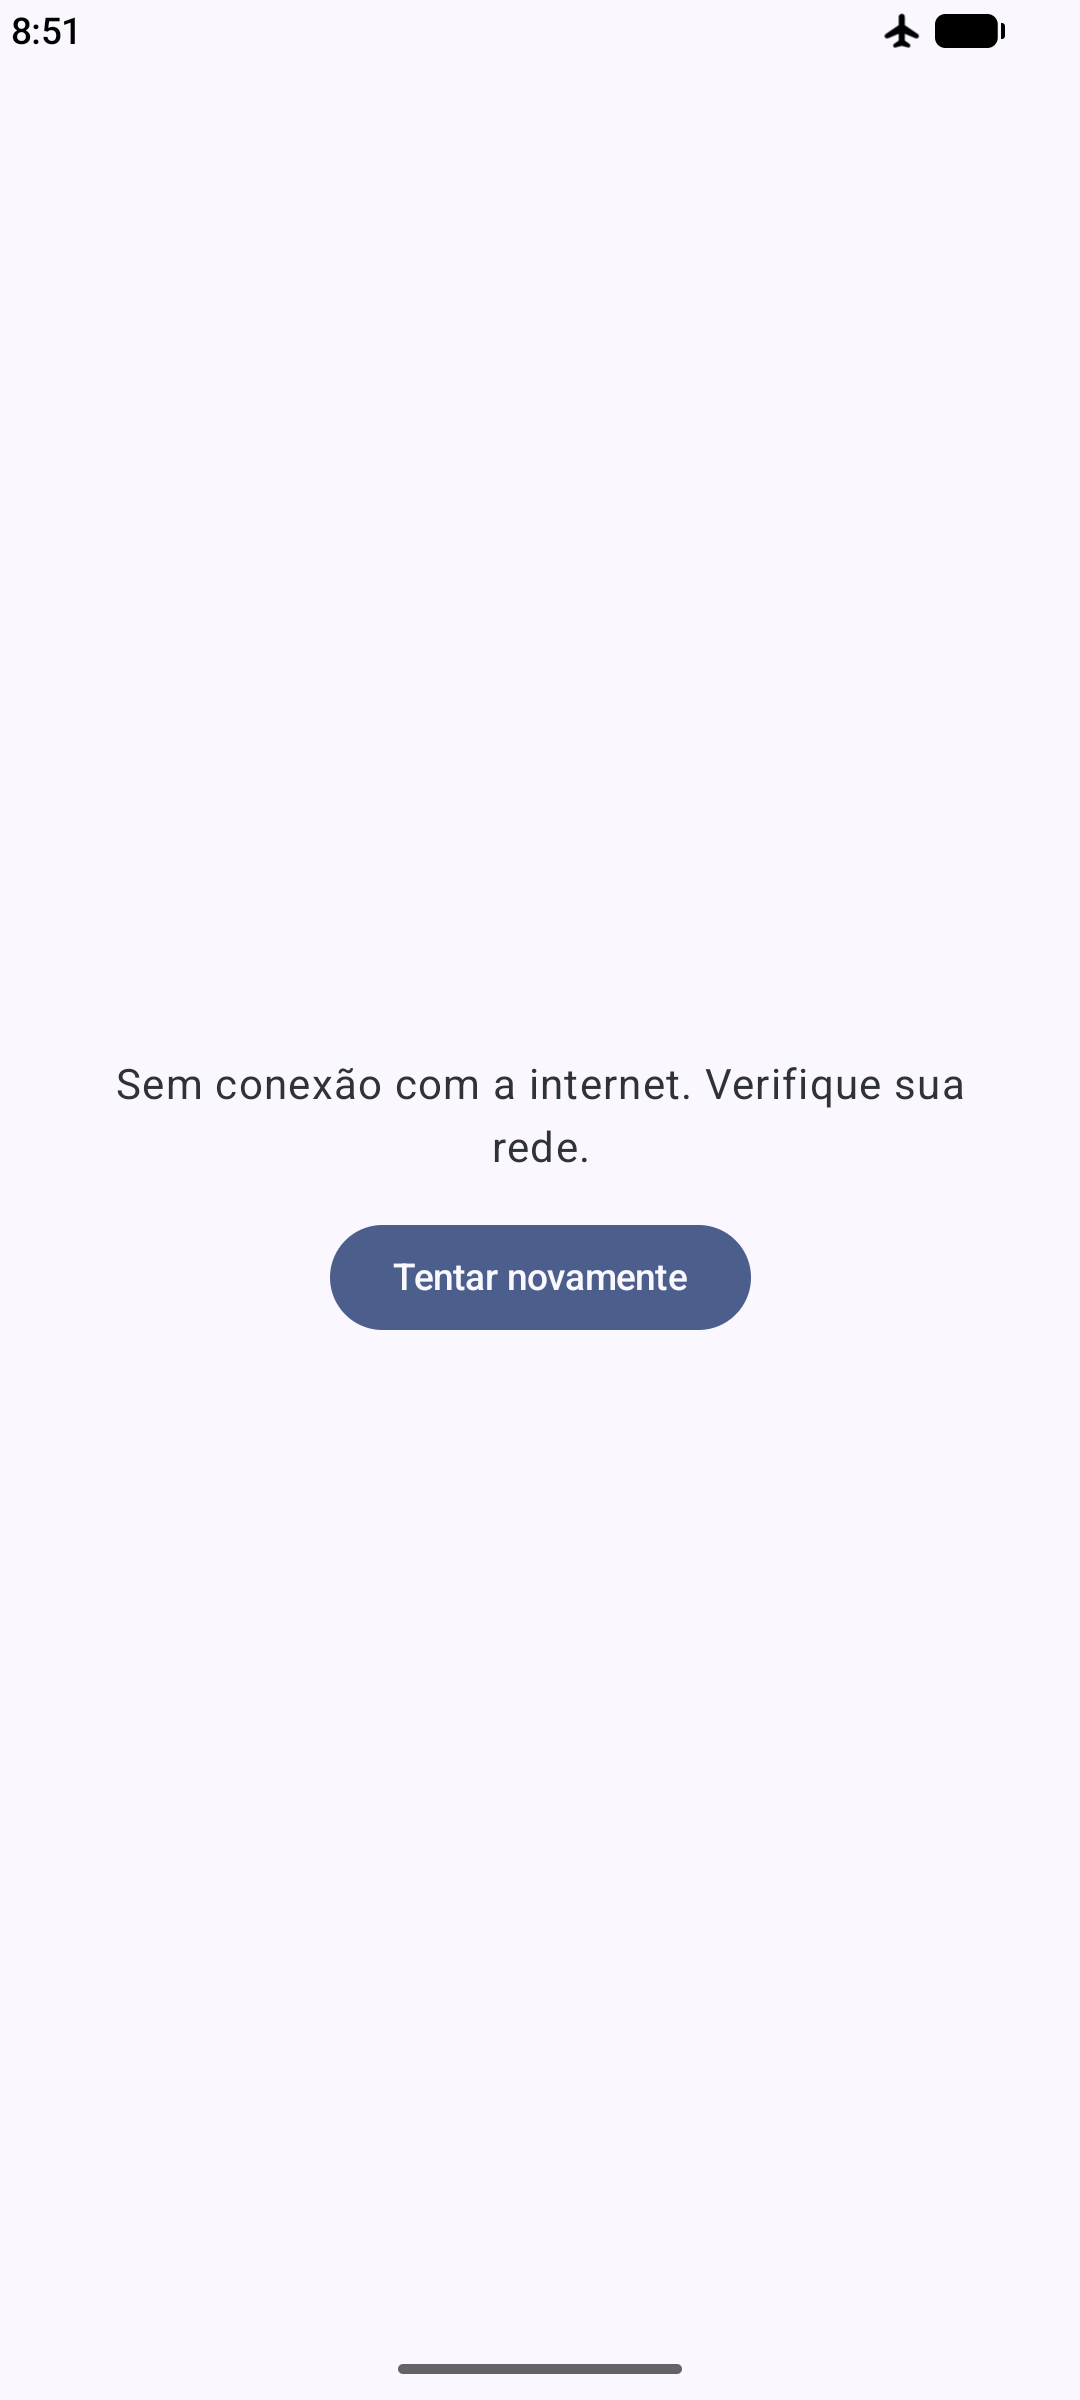
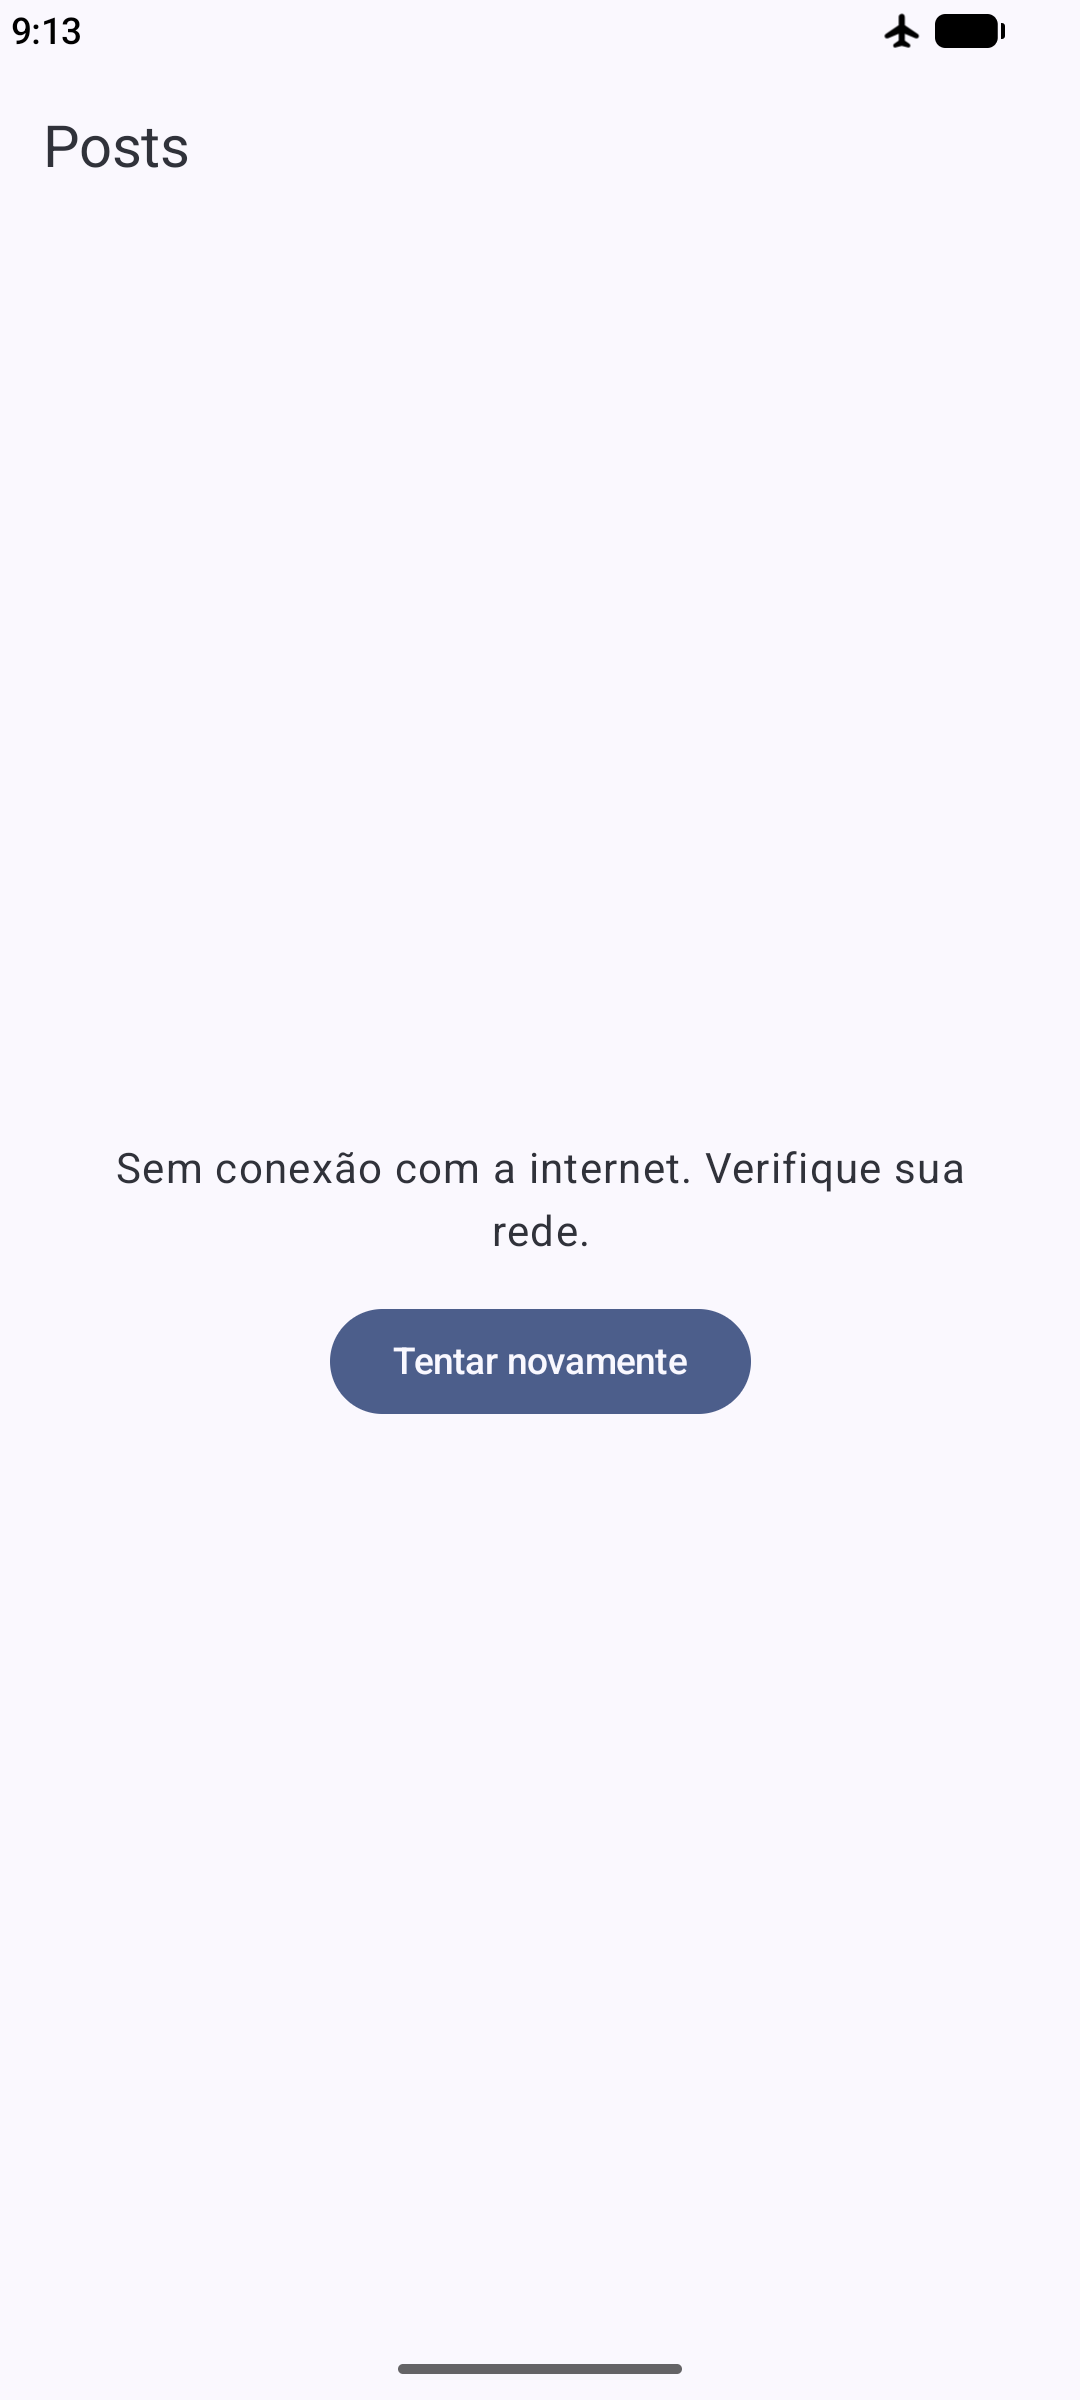
Adiciona tela de detalhes do post com comentários e Navigation Compose

diff --git a/app/src/main/java/com/example/retrofit_radier/PostDetailScreen.kt b/app/src/main/java/com/example/retrofit_radier/PostDetailScreen.kt
@@ -1,0 +1,138 @@
+package com.example.retrofit_radier
+
+import androidx.compose.foundation.layout.Arrangement
+import androidx.compose.foundation.layout.Column
+import androidx.compose.foundation.layout.PaddingValues
+import androidx.compose.foundation.layout.Spacer
+import androidx.compose.foundation.layout.fillMaxSize
+import androidx.compose.foundation.layout.fillMaxWidth
+import androidx.compose.foundation.layout.height
+import androidx.compose.foundation.layout.padding
+import androidx.compose.foundation.lazy.LazyColumn
+import androidx.compose.foundation.lazy.items
+import androidx.compose.material3.Card
+import androidx.compose.material3.CardDefaults
+import androidx.compose.material3.ExperimentalMaterial3Api
+import androidx.compose.material3.HorizontalDivider
+import androidx.compose.material3.Icon
+import androidx.compose.material3.IconButton
+import androidx.compose.material3.MaterialTheme
+import androidx.compose.material3.Scaffold
+import androidx.compose.material3.Text
+import androidx.compose.material3.TopAppBar
+import androidx.compose.runtime.Composable
+import androidx.compose.runtime.collectAsState
+import androidx.compose.runtime.getValue
+import androidx.compose.ui.Modifier
+import androidx.compose.ui.res.painterResource
+import androidx.compose.ui.text.font.FontWeight
+import androidx.compose.ui.tooling.preview.Preview
+import androidx.compose.ui.unit.dp
+import androidx.lifecycle.viewmodel.compose.viewModel
+import com.example.retrofit_radier.network.Comment
+import com.example.retrofit_radier.network.Post
+import com.example.retrofit_radier.ui.theme.Retrofit_radierTheme
+
+@OptIn(ExperimentalMaterial3Api::class)
+@Composable
+fun PostDetailScreen(
+    onBack: () -> Unit,
+    viewModel: PostDetailViewModel = viewModel()
+) {
+    val uiState by viewModel.uiState.collectAsState()
+
+    Scaffold(
+        topBar = {
+            TopAppBar(
+                title = { Text("Detalhes do post") },
+                navigationIcon = {
+                    IconButton(onClick = onBack) {
+                        Icon(
+                            painter = painterResource(R.drawable.ic_arrow_back),
+                            contentDescription = "Voltar"
+                        )
+                    }
+                }
+            )
+        }
+    ) { innerPadding ->
+        val modifier = Modifier.padding(innerPadding)
+        when (val state = uiState) {
+            is PostDetailUiState.Loading -> LoadingScreen(modifier)
+            is PostDetailUiState.Success -> PostDetailContent(state.post, state.comments, modifier)
+            is PostDetailUiState.Error -> ErrorScreen(state.message, onRetry = viewModel::fetchPost, modifier)
+        }
+    }
+}
+
+@Composable
+fun PostDetailContent(post: Post, comments: List<Comment>, modifier: Modifier = Modifier) {
+    LazyColumn(
+        modifier = modifier.fillMaxSize(),
+        contentPadding = PaddingValues(16.dp),
+        verticalArrangement = Arrangement.spacedBy(12.dp)
+    ) {
+        item {
+            Text(
+                text = "Post #${post.id} · Usuário ${post.userId}",
+                style = MaterialTheme.typography.labelMedium,
+                color = MaterialTheme.colorScheme.primary
+            )
+            Spacer(modifier = Modifier.height(8.dp))
+            Text(
+                text = post.title,
+                style = MaterialTheme.typography.headlineSmall,
+                fontWeight = FontWeight.Bold
+            )
+            Spacer(modifier = Modifier.height(12.dp))
+            Text(text = post.body, style = MaterialTheme.typography.bodyLarge)
+            Spacer(modifier = Modifier.height(16.dp))
+            HorizontalDivider()
+            Spacer(modifier = Modifier.height(16.dp))
+            Text(
+                text = "Comentários (${comments.size})",
+                style = MaterialTheme.typography.titleMedium,
+                fontWeight = FontWeight.Bold
+            )
+        }
+        items(comments, key = { it.id }) { comment ->
+            CommentCard(comment)
+        }
+    }
+}
+
+@Composable
+fun CommentCard(comment: Comment) {
+    Card(
+        modifier = Modifier.fillMaxWidth(),
+        colors = CardDefaults.cardColors(containerColor = MaterialTheme.colorScheme.surfaceVariant)
+    ) {
+        Column(modifier = Modifier.padding(12.dp)) {
+            Text(
+                text = comment.name,
+                style = MaterialTheme.typography.titleSmall,
+                fontWeight = FontWeight.Bold
+            )
+            Text(
+                text = comment.email,
+                style = MaterialTheme.typography.labelSmall,
+                color = MaterialTheme.colorScheme.primary
+            )
+            Spacer(modifier = Modifier.height(6.dp))
+            Text(text = comment.body, style = MaterialTheme.typography.bodyMedium)
+        }
+    }
+}
+
+@Preview(showBackground = true)
+@Composable
+fun PostDetailContentPreview() {
+    Retrofit_radierTheme {
+        PostDetailContent(
+            post = Post(userId = 1, id = 1, title = "Título de exemplo", body = "Corpo do post de exemplo."),
+            comments = listOf(
+                Comment(postId = 1, id = 1, name = "Comentário de exemplo", email = "autor@email.com", body = "Texto do comentário.")
+            )
+        )
+    }
+}

diff --git a/app/src/main/java/com/example/retrofit_radier/MainActivity.kt b/app/src/main/java/com/example/retrofit_radier/MainActivity.kt
@@ -19,9 +19,11 @@ import androidx.compose.material3.Button
 import androidx.compose.material3.Card
 import androidx.compose.material3.CardDefaults
 import androidx.compose.material3.CircularProgressIndicator
+import androidx.compose.material3.ExperimentalMaterial3Api
 import androidx.compose.material3.MaterialTheme
 import androidx.compose.material3.Scaffold
 import androidx.compose.material3.Text
+import androidx.compose.material3.TopAppBar
 import androidx.compose.runtime.Composable
 import androidx.compose.runtime.collectAsState
 import androidx.compose.runtime.getValue
@@ -32,6 +34,11 @@ import androidx.compose.ui.text.style.TextAlign
 import androidx.compose.ui.tooling.preview.Preview
 import androidx.compose.ui.unit.dp
 import androidx.lifecycle.viewmodel.compose.viewModel
+import androidx.navigation.NavType
+import androidx.navigation.compose.NavHost
+import androidx.navigation.compose.composable
+import androidx.navigation.compose.rememberNavController
+import androidx.navigation.navArgument
 import com.example.retrofit_radier.network.Post
 import com.example.retrofit_radier.ui.theme.Retrofit_radierTheme
 
@@ -41,26 +48,47 @@ class MainActivity : ComponentActivity() {
         enableEdgeToEdge()
         setContent {
             Retrofit_radierTheme {
-                Scaffold(modifier = Modifier.fillMaxSize()) { innerPadding ->
-                    PostScreen(modifier = Modifier.padding(innerPadding))
-                }
+                AppNavigation()
             }
         }
     }
 }
 
 @Composable
+fun AppNavigation() {
+    val navController = rememberNavController()
+
+    NavHost(navController = navController, startDestination = "posts") {
+        composable("posts") {
+            PostScreen(onPostClick = { postId -> navController.navigate("detail/$postId") })
+        }
+        composable(
+            route = "detail/{postId}",
+            arguments = listOf(navArgument("postId") { type = NavType.IntType })
+        ) {
+            PostDetailScreen(onBack = { navController.popBackStack() })
+        }
+    }
+}
+
+@OptIn(ExperimentalMaterial3Api::class)
+@Composable
 fun PostScreen(
-    modifier: Modifier = Modifier,
+    onPostClick: (Int) -> Unit,
     viewModel: PostViewModel = viewModel()
 ) {
     // Coletando o estado do Flow de forma reativa
     val uiState by viewModel.uiState.collectAsState()
 
-    when (val state = uiState) {
-        is PostUiState.Loading -> LoadingScreen(modifier)
-        is PostUiState.Success -> PostList(state.posts, modifier)
-        is PostUiState.Error -> ErrorScreen(state.message, onRetry = viewModel::fetchPosts, modifier)
+    Scaffold(
+        topBar = { TopAppBar(title = { Text("Posts") }) }
+    ) { innerPadding ->
+        val modifier = Modifier.padding(innerPadding)
+        when (val state = uiState) {
+            is PostUiState.Loading -> LoadingScreen(modifier)
+            is PostUiState.Success -> PostList(state.posts, onPostClick, modifier)
+            is PostUiState.Error -> ErrorScreen(state.message, onRetry = viewModel::fetchPosts, modifier)
+        }
     }
 }
 
@@ -93,21 +121,22 @@ fun ErrorScreen(message: String, onRetry: () -> Unit, modifier: Modifier = Modif
 }
 
 @Composable
-fun PostList(posts: List<Post>, modifier: Modifier = Modifier) {
+fun PostList(posts: List<Post>, onPostClick: (Int) -> Unit, modifier: Modifier = Modifier) {
     LazyColumn(
         modifier = modifier.fillMaxSize(),
         contentPadding = PaddingValues(16.dp),
         verticalArrangement = Arrangement.spacedBy(12.dp)
     ) {
         items(posts, key = { it.id }) { post ->
-            PostCard(post)
+            PostCard(post, onClick = { onPostClick(post.id) })
         }
     }
 }
 
 @Composable
-fun PostCard(post: Post) {
+fun PostCard(post: Post, onClick: () -> Unit = {}) {
     Card(
+        onClick = onClick,
         modifier = Modifier.fillMaxWidth(),
         elevation = CardDefaults.cardElevation(defaultElevation = 4.dp)
     ) {

diff --git a/app/src/main/java/com/example/retrofit_radier/PostDetailViewModel.kt b/app/src/main/java/com/example/retrofit_radier/PostDetailViewModel.kt
@@ -1,0 +1,41 @@
+package com.example.retrofit_radier
+
+import androidx.lifecycle.SavedStateHandle
+import androidx.lifecycle.ViewModel
+import androidx.lifecycle.viewModelScope
+import com.example.retrofit_radier.network.RetrofitClient
+import kotlinx.coroutines.async
+import kotlinx.coroutines.flow.MutableStateFlow
+import kotlinx.coroutines.flow.StateFlow
+import kotlinx.coroutines.flow.asStateFlow
+import kotlinx.coroutines.launch
+import java.io.IOException
+
+class PostDetailViewModel(savedStateHandle: SavedStateHandle) : ViewModel() {
+
+    // O Navigation coloca os argumentos da rota ("detail/{postId}") no SavedStateHandle
+    private val postId: Int = checkNotNull(savedStateHandle["postId"])
+
+    private val _uiState = MutableStateFlow<PostDetailUiState>(PostDetailUiState.Loading)
+    val uiState: StateFlow<PostDetailUiState> = _uiState.asStateFlow()
+
+    init {
+        fetchPost()
+    }
+
+    fun fetchPost() {
+        _uiState.value = PostDetailUiState.Loading
+        viewModelScope.launch {
+            _uiState.value = try {
+                // As duas requisições rodam em paralelo; await() espera cada uma terminar
+                val post = async { RetrofitClient.apiService.getPost(postId) }
+                val comments = async { RetrofitClient.apiService.getComments(postId) }
+                PostDetailUiState.Success(post.await(), comments.await())
+            } catch (e: IOException) {
+                PostDetailUiState.Error("Sem conexão com a internet. Verifique sua rede.")
+            } catch (e: Exception) {
+                PostDetailUiState.Error("Erro ao carregar o post: ${e.message}")
+            }
+        }
+    }
+}

diff --git a/app/src/main/java/com/example/retrofit_radier/PostDetailUiState.kt b/app/src/main/java/com/example/retrofit_radier/PostDetailUiState.kt
@@ -1,0 +1,10 @@
+package com.example.retrofit_radier
+
+import com.example.retrofit_radier.network.Comment
+import com.example.retrofit_radier.network.Post
+
+sealed interface PostDetailUiState {
+    data object Loading : PostDetailUiState
+    data class Success(val post: Post, val comments: List<Comment>) : PostDetailUiState
+    data class Error(val message: String) : PostDetailUiState
+}

diff --git a/app/src/main/java/com/example/retrofit_radier/network/ApiService.kt b/app/src/main/java/com/example/retrofit_radier/network/ApiService.kt
@@ -1,8 +1,15 @@
 package com.example.retrofit_radier.network
 
 import retrofit2.http.GET
+import retrofit2.http.Path
 
 interface ApiService {
     @GET("posts")
     suspend fun getPosts(): List<Post>
+
+    @GET("posts/{id}")
+    suspend fun getPost(@Path("id") id: Int): Post
+
+    @GET("posts/{id}/comments")
+    suspend fun getComments(@Path("id") id: Int): List<Comment>
 }

diff --git a/app/src/main/java/com/example/retrofit_radier/network/Comment.kt b/app/src/main/java/com/example/retrofit_radier/network/Comment.kt
@@ -1,0 +1,9 @@
+package com.example.retrofit_radier.network
+
+data class Comment(
+    val postId: Int,
+    val id: Int,
+    val name: String,
+    val email: String,
+    val body: String
+)

diff --git a/README.md b/README.md
@@ -1,12 +1,12 @@
 # Retrofit Radier
 
-Aplicativo Android que consome a API pública [JSONPlaceholder](https://jsonplaceholder.typicode.com/posts) e exibe uma lista de posts, desenvolvido como exercício da disciplina **Programação para Dispositivos Móveis II** (Faculdade Matias Machline), a partir do material *"Dominando o Retrofit no Android: Consumo de APIs com Jetpack Compose e Flows"*.
+Aplicativo Android que consome a API pública [JSONPlaceholder](https://jsonplaceholder.typicode.com/posts) e exibe uma lista de posts com tela de detalhes e comentários, desenvolvido como exercício da disciplina **Programação para Dispositivos Móveis II** (Faculdade Matias Machline), a partir do material *"Dominando o Retrofit no Android: Consumo de APIs com Jetpack Compose e Flows"*.
 
 ## Screenshots
 
-| Carregando | Lista de posts | Sem internet |
-|:---:|:---:|:---:|
-| <img src="docs/screenshots/loading.png" width="220"> | <img src="docs/screenshots/lista.png" width="220"> | <img src="docs/screenshots/erro.png" width="220"> |
+| Carregando | Lista de posts | Detalhes do post | Sem internet |
+|:---:|:---:|:---:|:---:|
+| <img src="docs/screenshots/loading.png" width="200"> | <img src="docs/screenshots/lista.png" width="200"> | <img src="docs/screenshots/detalhe.png" width="200"> | <img src="docs/screenshots/erro.png" width="200"> |
 
 ## Tecnologias
 
@@ -15,6 +15,7 @@ Aplicativo Android que consome a API pública [JSONPlaceholder](https://jsonplac
 - **Retrofit** 3.0 + **Gson** (conversão de JSON)
 - **Coroutines** e **StateFlow**
 - **ViewModel** (arquitetura MVVM)
+- **Navigation Compose** (navegação entre telas)
 - **Version Catalog** (`gradle/libs.versions.toml`)
 
 ## Estrutura do projeto
@@ -22,12 +23,16 @@ Aplicativo Android que consome a API pública [JSONPlaceholder](https://jsonplac
 ```
 app/src/main/java/com/example/retrofit_radier/
 ├── network/
-│   ├── Post.kt             # Entidade: modelo de dados do JSON
-│   ├── ApiService.kt       # Serviço: endpoints da API (@GET)
-│   └── RetrofitClient.kt   # Instância única (singleton) do Retrofit
-├── PostUiState.kt          # Estados da tela: Loading, Success, Error
-├── PostViewModel.kt        # Busca os dados e expõe o estado via StateFlow
-└── MainActivity.kt         # Telas em Jetpack Compose
+│   ├── Post.kt                # Entidade: modelo de um post
+│   ├── Comment.kt             # Entidade: modelo de um comentário
+│   ├── ApiService.kt          # Serviço: endpoints da API (@GET, @Path)
+│   └── RetrofitClient.kt      # Instância única (singleton) do Retrofit
+├── PostUiState.kt             # Estados da lista: Loading, Success, Error
+├── PostViewModel.kt           # Busca a lista de posts
+├── PostDetailUiState.kt       # Estados da tela de detalhes
+├── PostDetailViewModel.kt     # Busca um post e seus comentários
+├── PostDetailScreen.kt        # Tela de detalhes em Compose
+└── MainActivity.kt            # Navegação (NavHost) e tela da lista
 ```
 
 ## Fluxo dos dados
@@ -53,6 +58,11 @@ Cada etapa foi registrada em um commit separado:
    - `PostUiState` (`sealed interface`) representa os três estados possíveis da tela.
    - Enquanto carrega, aparece um `CircularProgressIndicator`.
    - Em caso de falha, aparece uma mensagem de erro com o botão **Tentar novamente**. Falhas de rede (`IOException`) são tratadas separadamente das demais exceções.
+8. **Tela de detalhes do post**:
+   - Novos endpoints com parâmetro de caminho: `@GET("posts/{id}")` e `@GET("posts/{id}/comments")`, usando `@Path("id")`.
+   - **Navigation Compose**: o `NavHost` tem as rotas `posts` e `detail/{postId}`. Tocar em um card navega para o detalhe; a seta (ou o botão voltar do sistema) retorna à lista.
+   - `PostDetailViewModel` lê o `postId` do `SavedStateHandle` e busca o post e os comentários **em paralelo** com `async`/`await`.
+   - A tela reaproveita os componentes `LoadingScreen` e `ErrorScreen` da lista.
 
 ## Como executar
 
